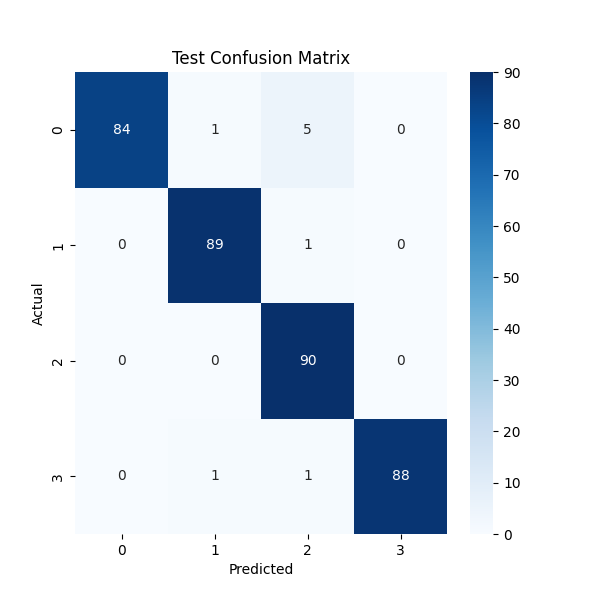
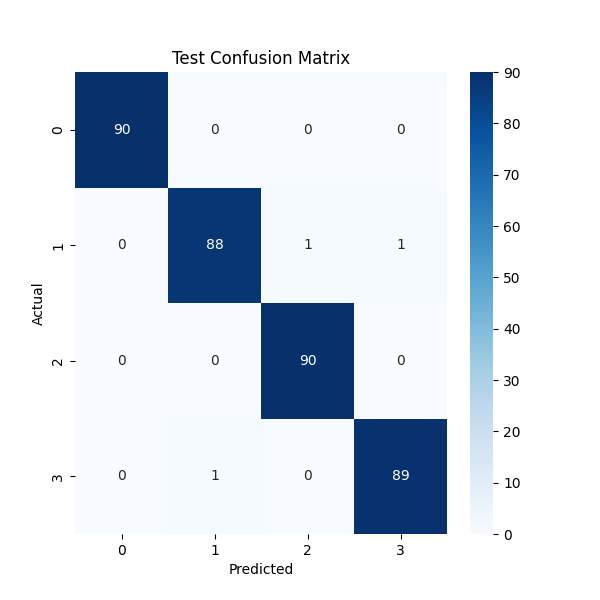
fix earlystopping + training

diff --git a/src/train.py b/src/train.py
@@ -145,9 +145,11 @@ def trainer(config=None):
             scheduler.step(val_loss)
 
         # early stopping
-        early_stopping(val_loss)
         print(f"[Epoch {epoch+1}/{EPOCHS}] Train Loss: {train_loss:.4f} Val Loss: {val_loss:.4f} Train Acc: {train_acc:.4f} Val Acc: {val_acc:.4f}")
         run.log({"train_loss": train_loss, "val_loss": val_loss, "train_acc": train_acc, "val_acc": val_acc})
+        if early_stopping(val_loss):
+            print("Early stopping triggered")
+            break
 
     # final verdict: test
     start_time = time.time()

diff --git a/src/parsers/parser_train.py b/src/parsers/parser_train.py
@@ -1,5 +1,5 @@
 import argparse
-
+import sys
 def create_parser():
     parser = argparse.ArgumentParser(description="Train with different models.")
     parser.add_argument("--model", default="alexnet", type=str, help="Model name to train")
@@ -9,6 +9,8 @@ def create_parser():
     return parser
 
 def parse_args():
+
+    sys.argv = [sys.argv[0]]
     parser = create_parser()
     args, unknown = parser.parse_known_args()
     return args

diff --git a/src/utils/helper.py b/src/utils/helper.py
@@ -58,6 +58,5 @@ class EarlyStopping():
         else:
             self.counter += 1
             if self.counter >= self.patience:
-                print("Early stopping triggered")
                 return True
     

diff --git a/src/login.py b/src/login.py
@@ -1,6 +1,8 @@
 import os
 import wandb
+from dotenv import load_dotenv
 
+load_dotenv()
 # Read the WandB API key from the environment variable
 api_key = os.getenv("WANDB_API_KEY")
 if api_key:
